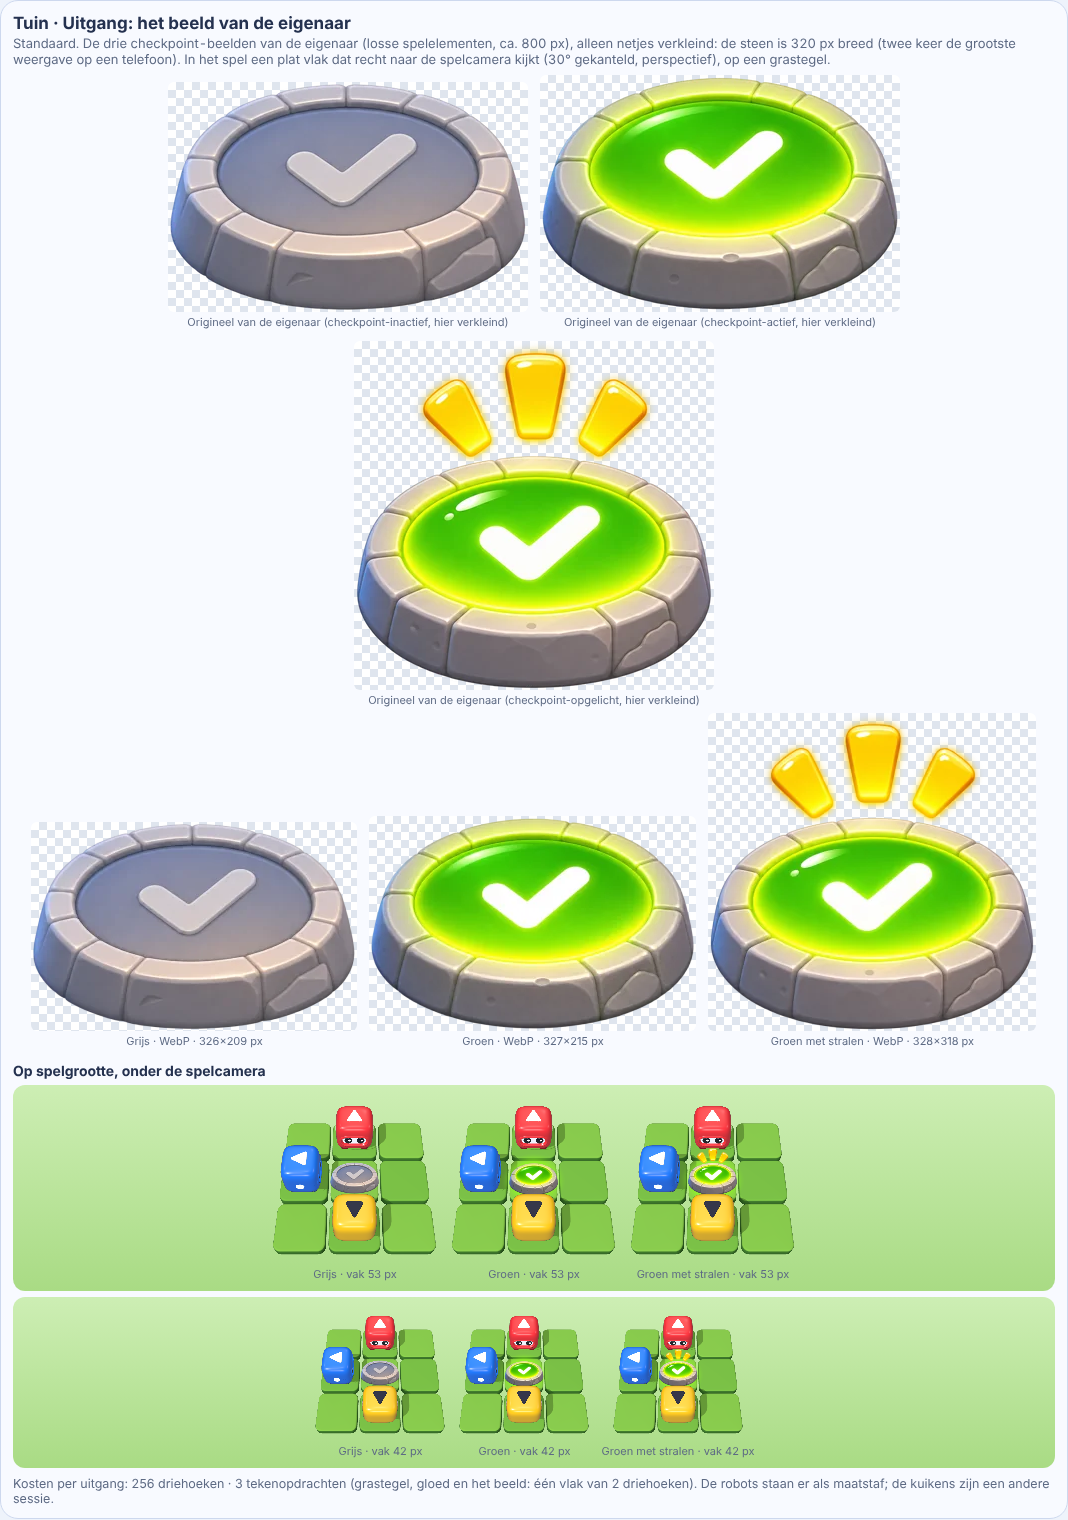
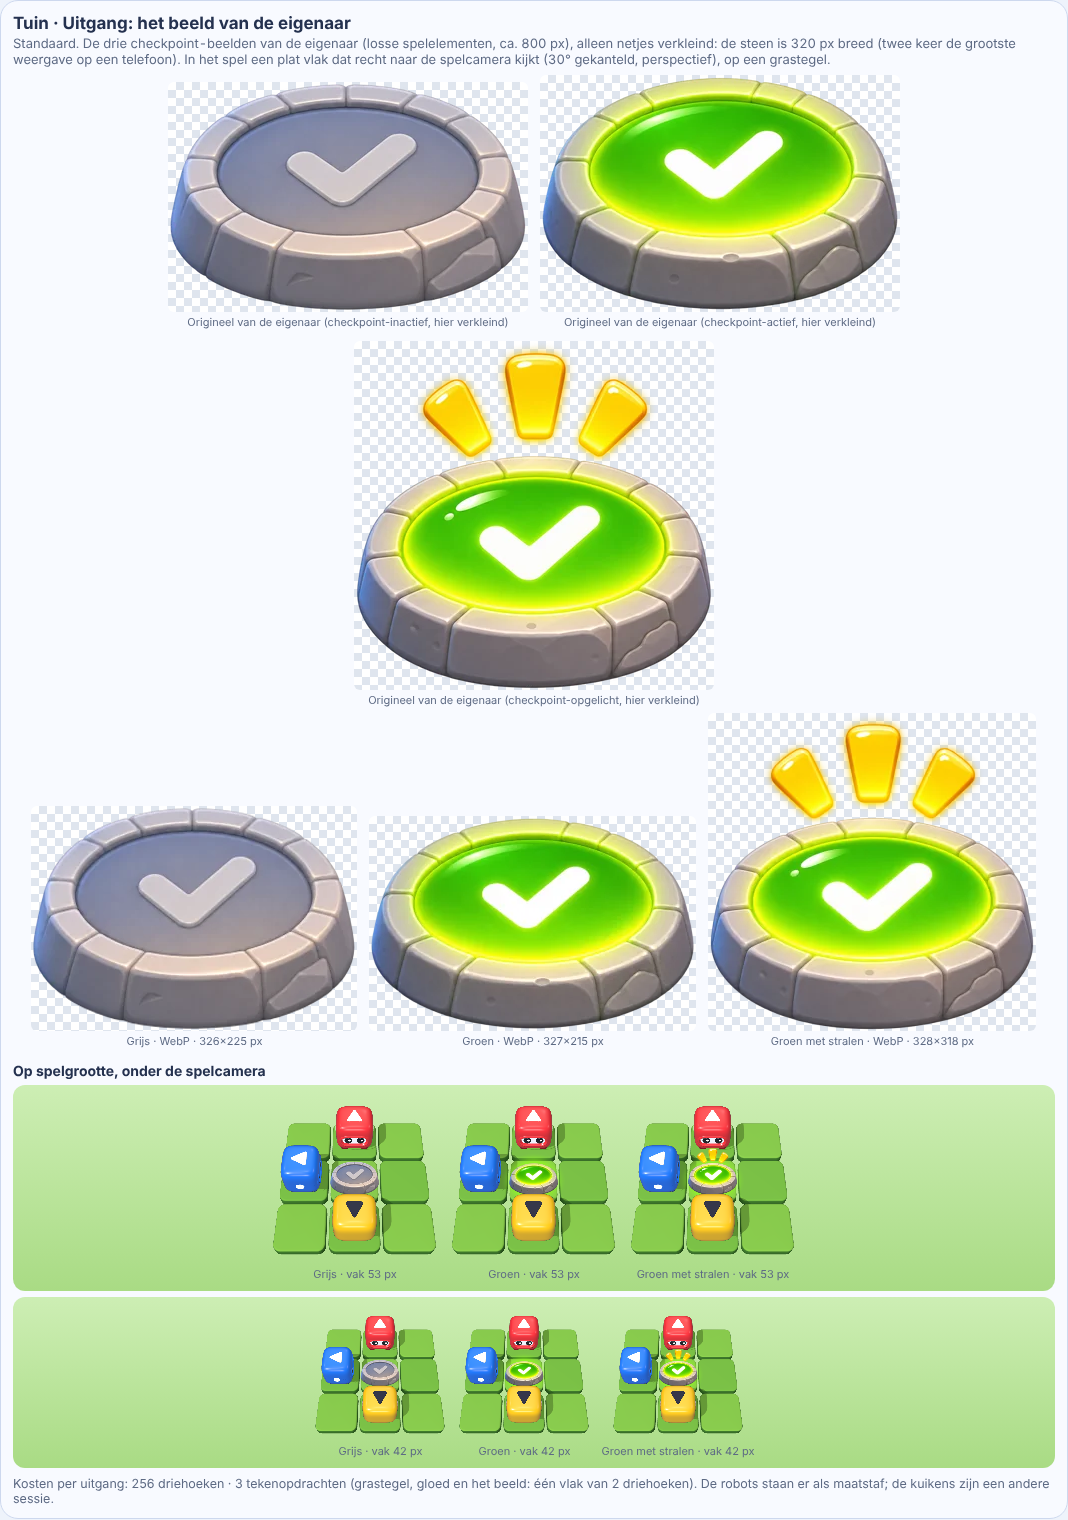
fix: grey exit pad levelled with the green and rays pads
The owner's grey pad is drawn a little flatter; it is stretched ~7 %
vertically so its base no longer jumps when the look changes.

Design: design/themes/garden-exit.md

Claude-Session: https://claude.ai/code/session_01PBSmYqBfYXyG8SyW6SfNEM
(cherry picked from commit d273653bc58d970fb545703e4262969ea783d612)

Changed region(s): [[0.0309, 0.5257, 0.3399, 0.6493]]

diff --git a/tools/asset-pipeline/garden_exit/exit_pads.py b/tools/asset-pipeline/garden_exit/exit_pads.py
@@ -85,9 +85,38 @@ def _hires(look: str) -> tuple[np.ndarray, tuple[float, float]]:
     return rgba, ((cx + 0.5) * sx - 0.5, (cy + 0.5) * sy - 0.5)
 
 
+def _depth(rgba: np.ndarray, at: tuple[float, float]) -> float:
+    """From the face centre down to the base's lowest solid row, in px."""
+    rows = np.nonzero((rgba[..., 3] > 128).any(axis=1))[0]
+    return rows.max() - at[1]
+
+
+def _stretch_y(rgba: np.ndarray, factor: float) -> np.ndarray:
+    """Stretch a picture vertically by `factor` on premultiplied colour (no fringes)."""
+    h, w = rgba.shape[:2]
+    a = rgba[..., 3:4] / 255
+    pre = np.dstack([rgba[..., :3] * a, rgba[..., 3:4]]).astype(np.float32)
+    out = cv2.resize(pre, (w, round(h * factor)), interpolation=cv2.INTER_CUBIC)
+    alpha = np.clip(out[..., 3], 0, 255)
+    rgb = np.where(alpha[..., None] > 0.5, out[..., :3] / np.maximum(alpha[..., None] / 255, 1e-3), 0)
+    return np.dstack([np.clip(rgb, 0, 255), alpha])
+
+
+# The owner's grey pad is drawn a little flatter than the green and rays pads (face centre to base
+# ~125 px against ~134 px at output size), so swapping looks made the base jump. With this on, the
+# grey pad is stretched vertically to the green pad's depth (about 7 %); its face and stone width
+# stay where they are. The owner chose this (2026-11-24: "trek recht als dat mooier is").
+LEVEL_GREY = True
+
+
 def hires_pad(look: str) -> tuple[np.ndarray, tuple[float, float]]:
     """One look at output size (stone `PAD_STONE_OUT_PX` wide = 1 cell) and its anchor in px."""
     rgba, at = _hires(look)
+    if look == "grey" and LEVEL_GREY:
+        green, gat = _hires("green")
+        factor = _depth(green, gat) / _depth(rgba, at)
+        rgba = _stretch_y(rgba, factor)
+        at = (at[0], (at[1] + 0.5) * rgba.shape[0] / _hires(look)[0].shape[0] - 0.5)
     return rgba.copy(), at
 
 

diff --git a/design/themes/garden-exit.md b/design/themes/garden-exit.md
@@ -231,6 +231,6 @@ small sheet and the enlargement work above are superseded for the pads.
 | Gate, gazebo, gazebo goal | unchanged | | no new picture for these |
 
 All derived pads line up exactly with the green pad (same size and anchor). The grey picture is
-drawn slightly flatter than the green: swapping looks moves the base edge ~0.03 cell; the face stays put.
+drawn slightly flatter than the green; at the owner's request ("trek recht als dat mooier is") it is stretched vertically by ~7 % (`LEVEL_GREY` in exit_pads.py) so its base lines up with the green and rays pads when the look changes (evidence: `elements/grey-levelled.png`).
 The other elements (portals, stars, cloud) went to the effects session; gem, heart, star coin and the
 corner growth are listed for the lead session.
